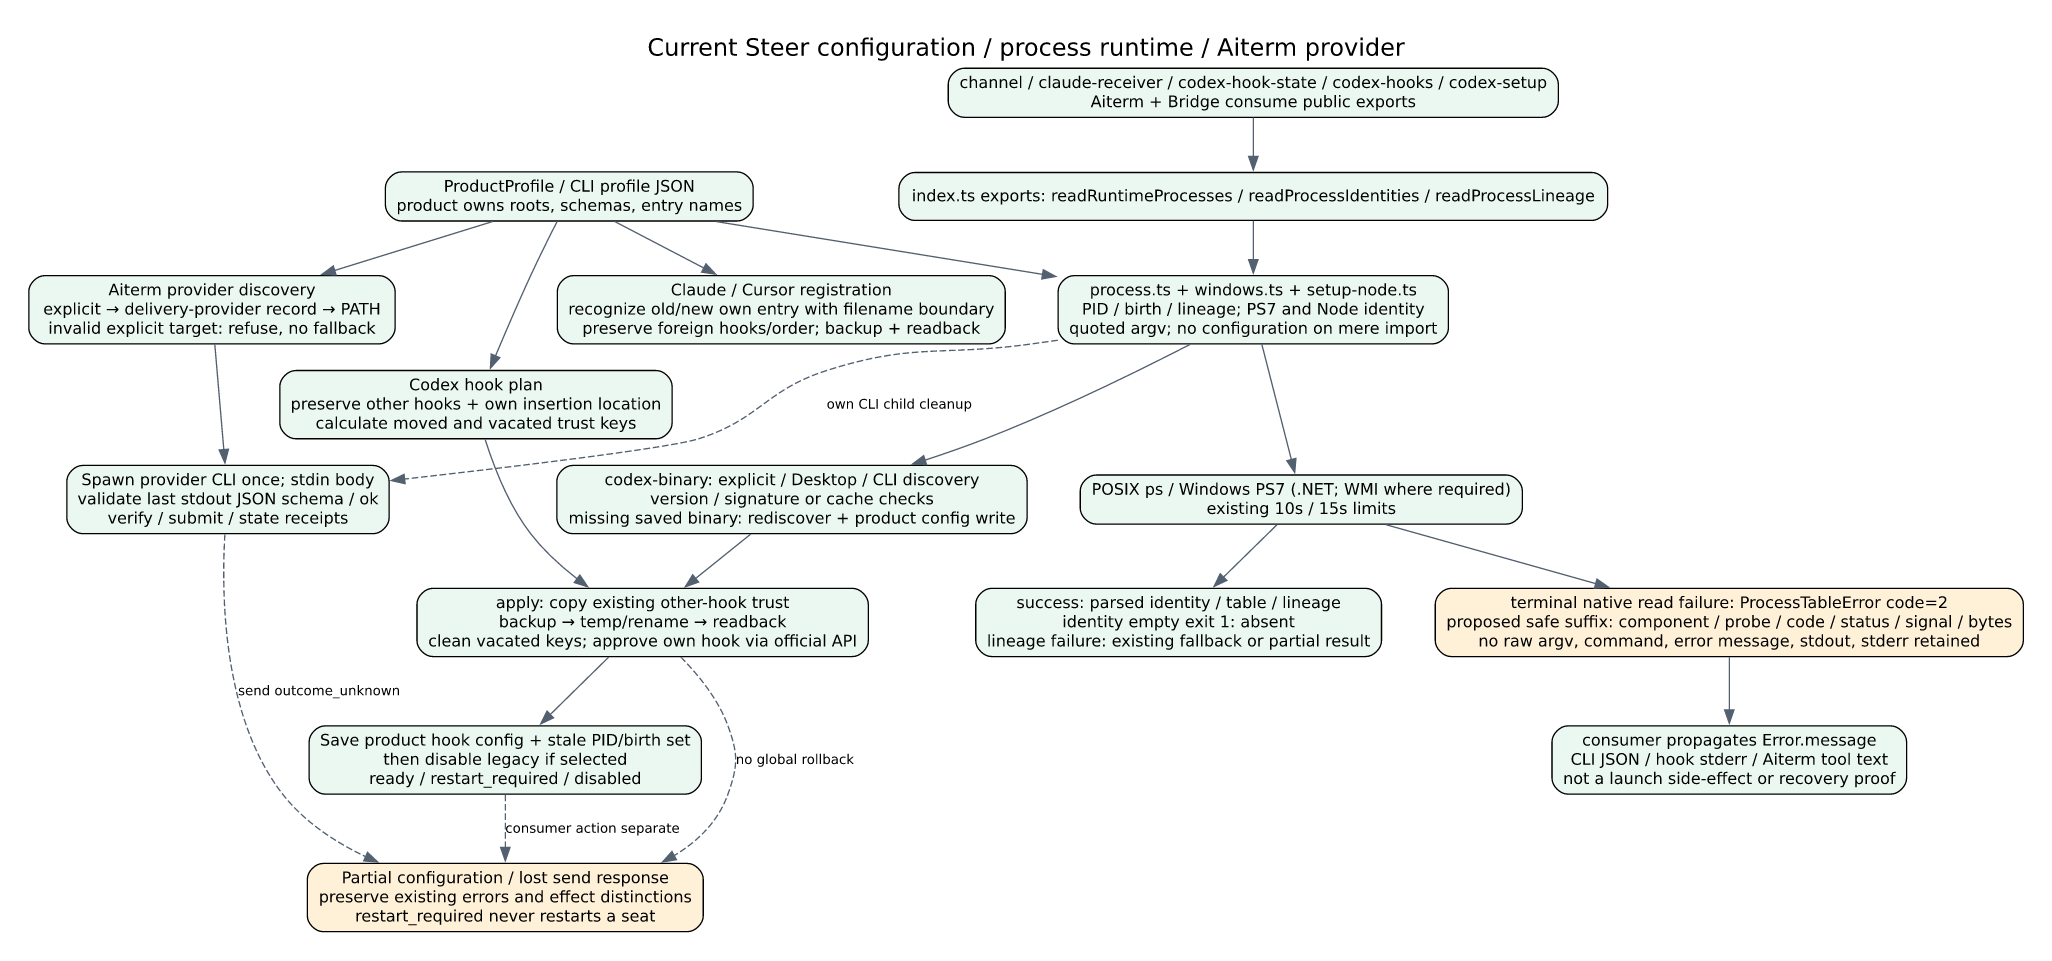
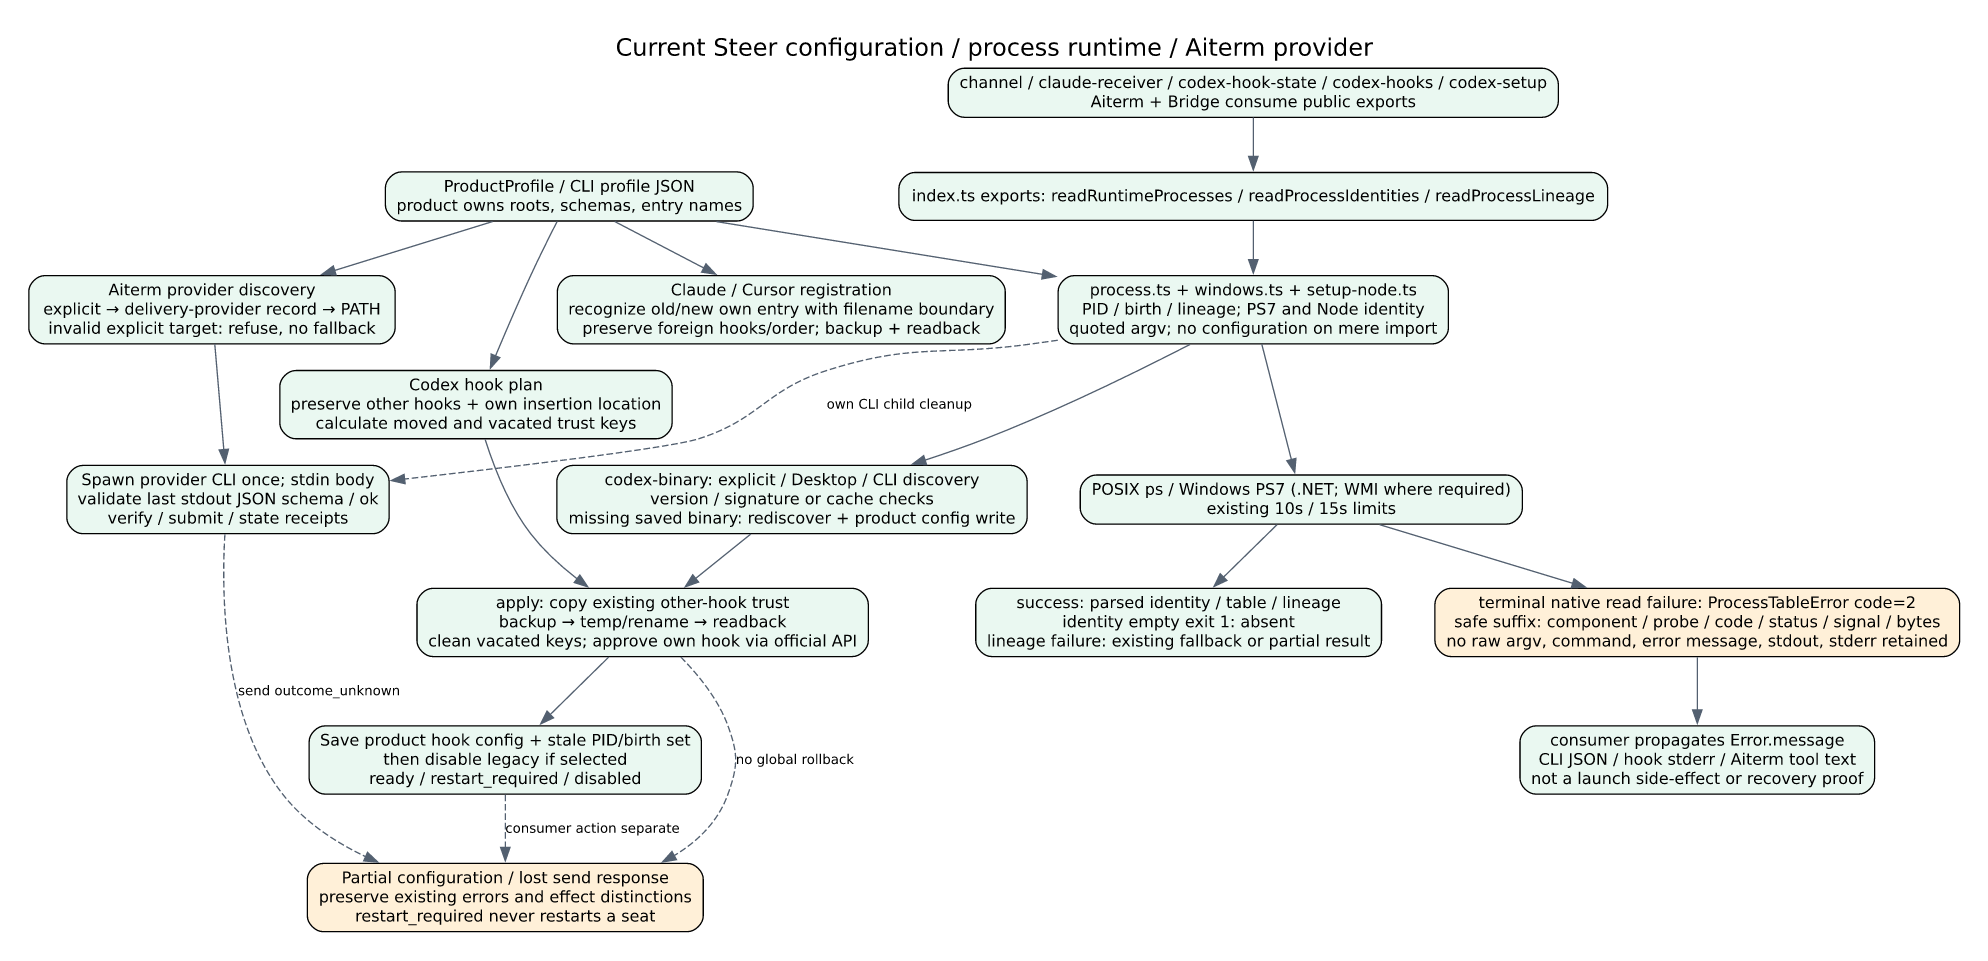
Retain safe OS details when Steer process reads fail

diff --git a/src/process.ts b/src/process.ts
@@ -1,11 +1,21 @@
 // OSのprocess表。PIDの再利用を見分けるため、開始時刻（started_identity）と組にして扱う。
-import { spawnSync } from "node:child_process";
+import { spawnSync, type SpawnSyncReturns } from "node:child_process";
 import { createHash } from "node:crypto";
 import { resolveWindowsPowerShell7 } from "./windows.js";
 
 const isWin = process.platform === "win32";
 class ProcessTableError extends Error {
   readonly code = 2;
+}
+
+function processReadError(probe: string, failure: string, result: SpawnSyncReturns<string>): ProcessTableError {
+  const code = (result.error as NodeJS.ErrnoException | undefined)?.code;
+  // Native messages and output can contain argv and credentials.
+  const detail = { component: "aiterm-steer-delivery", probe, code: result.error
+    ? (code && ["ETIMEDOUT", "ENOBUFS", "EAGAIN", "ENOENT", "EACCES", "ENOMEM", "EMFILE", "ENFILE", "E2BIG", "EPERM"].includes(code) ? code : "UNKNOWN") : null,
+    status: result.status ?? null, signal: result.signal ?? null,
+    stdout_bytes: Buffer.byteLength(result.stdout ?? ""), stderr_bytes: Buffer.byteLength(result.stderr ?? "") };
+  return new ProcessTableError(`${failure} ${JSON.stringify(detail)}`);
 }
 
 export interface NativeProcessIdentity {
@@ -78,12 +88,12 @@ export function processExists(pid: number): boolean {
   catch (error) { return (error as NodeJS.ErrnoException).code === "EPERM"; }
 }
 
-function windowsJson(script: string, failure: string): unknown {
+function windowsJson(script: string, failure: string, probe: string): unknown {
   const source = ["$ErrorActionPreference='Stop'", "[Console]::OutputEncoding=[Text.UTF8Encoding]::new($false)", script].join("\n");
   const result = spawnSync(resolveWindowsPowerShell7(), ["-NoLogo", "-NoProfile", "-NonInteractive", "-EncodedCommand", Buffer.from(source, "utf16le").toString("base64")], {
     encoding: "utf8", timeout: 15000, maxBuffer: 16 * 1024 * 1024, windowsHide: true,
   });
-  if (result.error || result.status !== 0) throw new ProcessTableError(failure);
+  if (result.error || result.status !== 0) throw processReadError(probe, failure, result);
   try { return JSON.parse(result.stdout); } catch { throw new ProcessTableError(failure); }
 }
 
@@ -121,7 +131,7 @@ export function readProcessIdentities(pids: readonly number[]): { pid: number; s
     });
     // 該当するprocessが一つも無い時、psは何も出さずstatus 1で終わる。
     if (result.error || (result.status !== 0 && !(result.status === 1 && !result.stdout.trim()))) {
-      throw new ProcessTableError("OSのprocess一覧を取得できません");
+      throw processReadError("identity", "OSのprocess一覧を取得できません", result);
     }
     return result.stdout.split("\n").filter(line => line.trim()).map(line => {
       const match = /^\s*(\d+)\s+(\S+\s+\S+\s+\d+\s+\S+\s+\d+)\s*$/.exec(line);
@@ -139,7 +149,7 @@ export function readProcessIdentities(pids: readonly number[]): { pid: number; s
     "  $rows += [ordered]@{ pid=[int]$id; started_identity=$started }",
     "}",
     "ConvertTo-Json -Compress -InputObject $rows",
-  ].join("\n"), "Windowsのprocessの開始時刻を取得できません");
+  ].join("\n"), "Windowsのprocessの開始時刻を取得できません", "identity");
   if (!Array.isArray(rows)) throw new ProcessTableError("Windows processの読みが配列ではありません");
   return rows.map(row => {
     if (!row || !Number.isSafeInteger(row.pid)) throw new ProcessTableError("Windows processの読みのfieldが不正です");
@@ -180,7 +190,7 @@ export function readProcessLineage(pid: number, depth = 8): RuntimeProcess[] {
       "  $child=$started; $id=$parent",
       "}",
       "ConvertTo-Json -Compress -InputObject $rows",
-    ].join("\n"), "Windowsのprocessの先祖を取得できません");
+    ].join("\n"), "Windowsのprocessの先祖を取得できません", "lineage");
   } catch { return readRuntimeProcesses(); }
   if (!Array.isArray(rows) || rows[0]?.pid !== pid) return readRuntimeProcesses();
   return rows.map(row => {
@@ -220,7 +230,7 @@ export function readRuntimeProcesses(): RuntimeProcess[] {
     const result = spawnSync("/bin/ps", ["-axww", "-o", "pid=,ppid=,pgid=,stat=,lstart=,time=,command="], {
       encoding: "utf8", env: { ...process.env, LC_ALL: "C" }, timeout: 10000, maxBuffer: 16 * 1024 * 1024,
     });
-    if (result.error || result.status !== 0) throw new ProcessTableError("OSのprocess一覧を取得できません");
+    if (result.error || result.status !== 0) throw processReadError("table", "OSのprocess一覧を取得できません", result);
     return parsePosixProcessTable(result.stdout);
   }
   const script = [
@@ -233,7 +243,7 @@ export function readRuntimeProcesses(): RuntimeProcess[] {
   const result = spawnSync(resolveWindowsPowerShell7(), ["-NoLogo", "-NoProfile", "-NonInteractive", "-EncodedCommand", Buffer.from(script, "utf16le").toString("base64")], {
     encoding: "utf8", timeout: 15000, maxBuffer: 16 * 1024 * 1024, windowsHide: true,
   });
-  if (result.error || result.status !== 0) throw new ProcessTableError("Windowsのnative process一覧を取得できません");
+  if (result.error || result.status !== 0) throw processReadError("table", "Windowsのnative process一覧を取得できません", result);
   let rows: unknown;
   try { rows = JSON.parse(result.stdout); } catch { throw new ProcessTableError("Windows process一覧のJSONを読めません"); }
   if (!Array.isArray(rows)) throw new ProcessTableError("Windows process一覧が配列ではありません");

diff --git a/docs/architecture/process-diagnostics.md b/docs/architecture/process-diagnostics.md
@@ -1,6 +1,6 @@
 # process読取の公開契約と診断修理
 
-[担当図](steer-setup-runtime.svg) → [実装](../../src/process.ts) → [全source索引](source-index.md)。現行6734ではnative失敗理由を捨てる。提案修理はProcessTableErrorのcode=2と既prefixに安全JSON suffixを追加するだけで、公開関数signature/export map/state/configは変えない。
+[担当図](steer-setup-runtime.svg) → [実装](../../src/process.ts) → [全source索引](source-index.md)。現行6734ではnative失敗理由を捨てる。この修理はProcessTableErrorのcode=2と既prefixに安全JSON suffixを追加するだけで、公開関数signature/export map/state/configは変えない。
 
 | 入口 | OSへの照会 | 成功/不在/失敗 |
 | --- | --- | --- |
@@ -10,6 +10,6 @@
 
 内部caller: channel.tsのowner/waiter/claim、claude-receiver.tsのhook親/配送本人性、codex-hook-state.tsの親lineage/claim、codex-hooks.tsの自身identity、codex-setup.tsの稼働process一覧。公開index.tsは3読取と関連helperをexportし、外部Aiterm/Bridge等も利用する。CLIはmessageをJSON返却、hookはstderr、Aitermはtool textへ射影する。数値code=2とconsumer側のCLI_FAILED等は別契約である。
 
-提案suffixはcomponent=aiterm-steer-delivery、probe=table/identity/lineage、allowlistされたerror.code（未知はUNKNOWN、error無しnull）、native status/signal、stdout_bytes/stderr_bytes。native message/cause、自由stderr/stdout、command/argv/pathを例外へ保存しない。観測不能は成功/死亡に丸めない。10秒/15秒のtimeout、maxBuffer、既fallback/parse/成功条件を変えない。
+追加suffixはcomponent=aiterm-steer-delivery、probe=table/identity/lineage、allowlistされたerror.code（未知はUNKNOWN、error無しnull）、native status/signal、stdout_bytes/stderr_bytes。native message/cause、自由stderr/stdout、command/argv/pathを例外へ保存しない。観測不能は成功/死亡に丸めない。10秒/15秒のtimeout、maxBuffer、既fallback/parse/成功条件を変えない。
 
 対象版の全caller/test/fixture/config/exportはsource-indexと既test群へ接続。新直接fixtureで既失敗に安全detailが残ること、未知code/null出力/UTF8 byte数/秘密sentinel/不在/lineage fallbackを確認する。必要な既channel/Claude/Codex契約を回帰確認する。実Macで起きた旧失敗のerrnoやloaded版はunknown、診断修理は復旧証明にならない。変更前後の直接結果とpack/3OSは担当成果へ固定し、未実施を明示する。

diff --git a/README.md b/README.md
@@ -264,3 +264,7 @@ CI runs the tests on Ubuntu, macOS, and Windows. Pushing a `v<version>` tag publ
 ## License
 
 [MIT](LICENSE)
+
+## Architecture
+
+[Product boundaries and source index](docs/architecture/README.md).

diff --git a/CHANGELOG.md b/CHANGELOG.md
@@ -1,3 +1,7 @@
+## Unreleased
+
+- Preserve safe OS failure details for process reads without exposing command lines or output.
+
 # Changelog
 
 ## Unreleased
